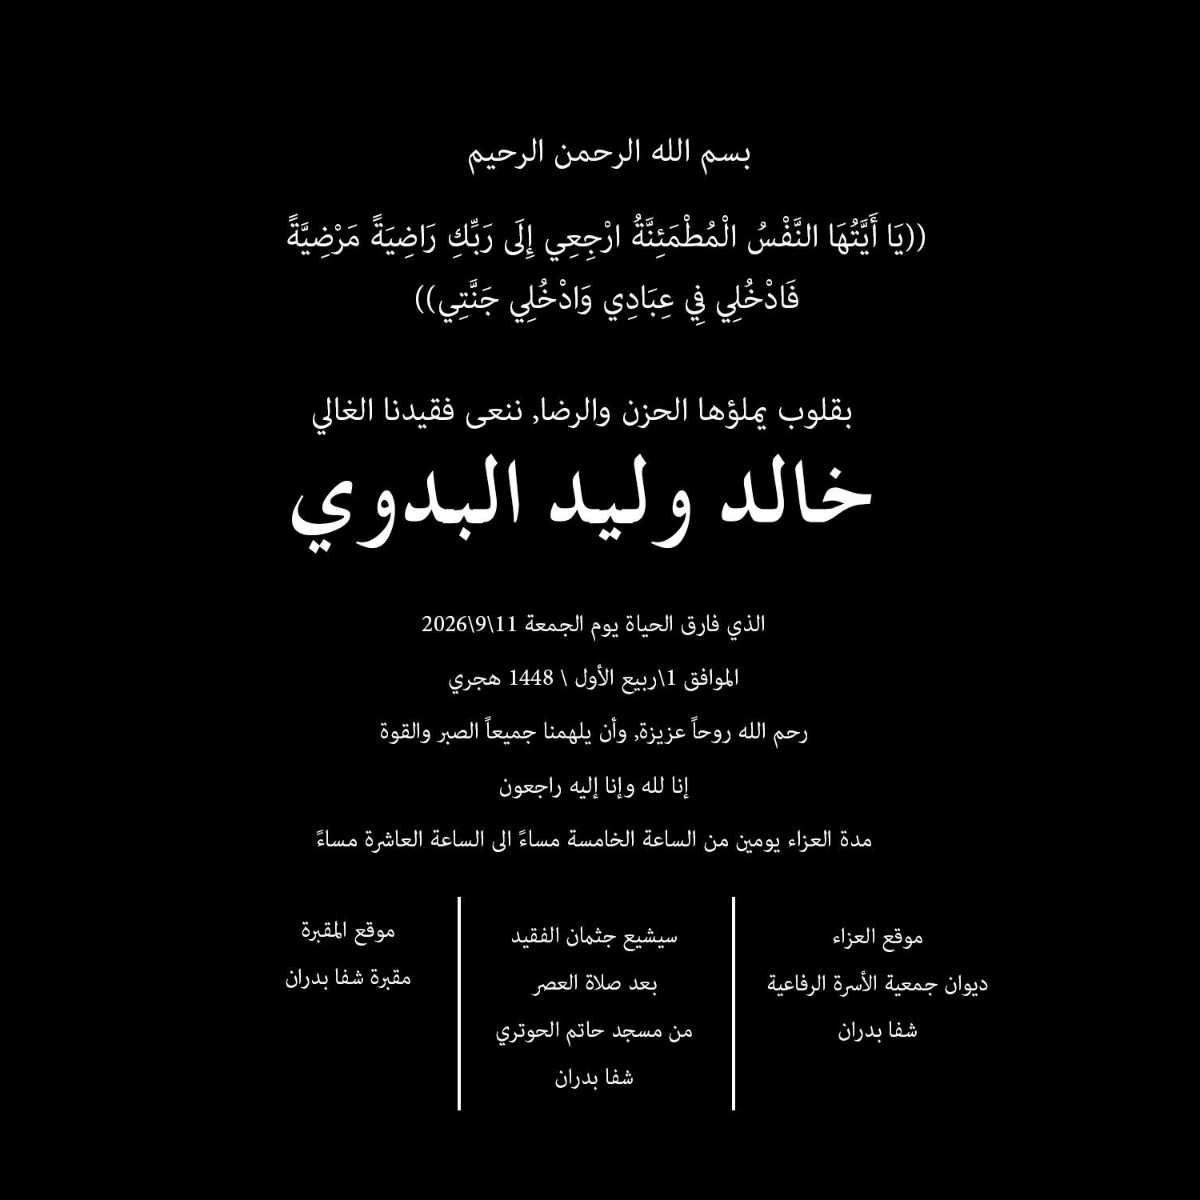
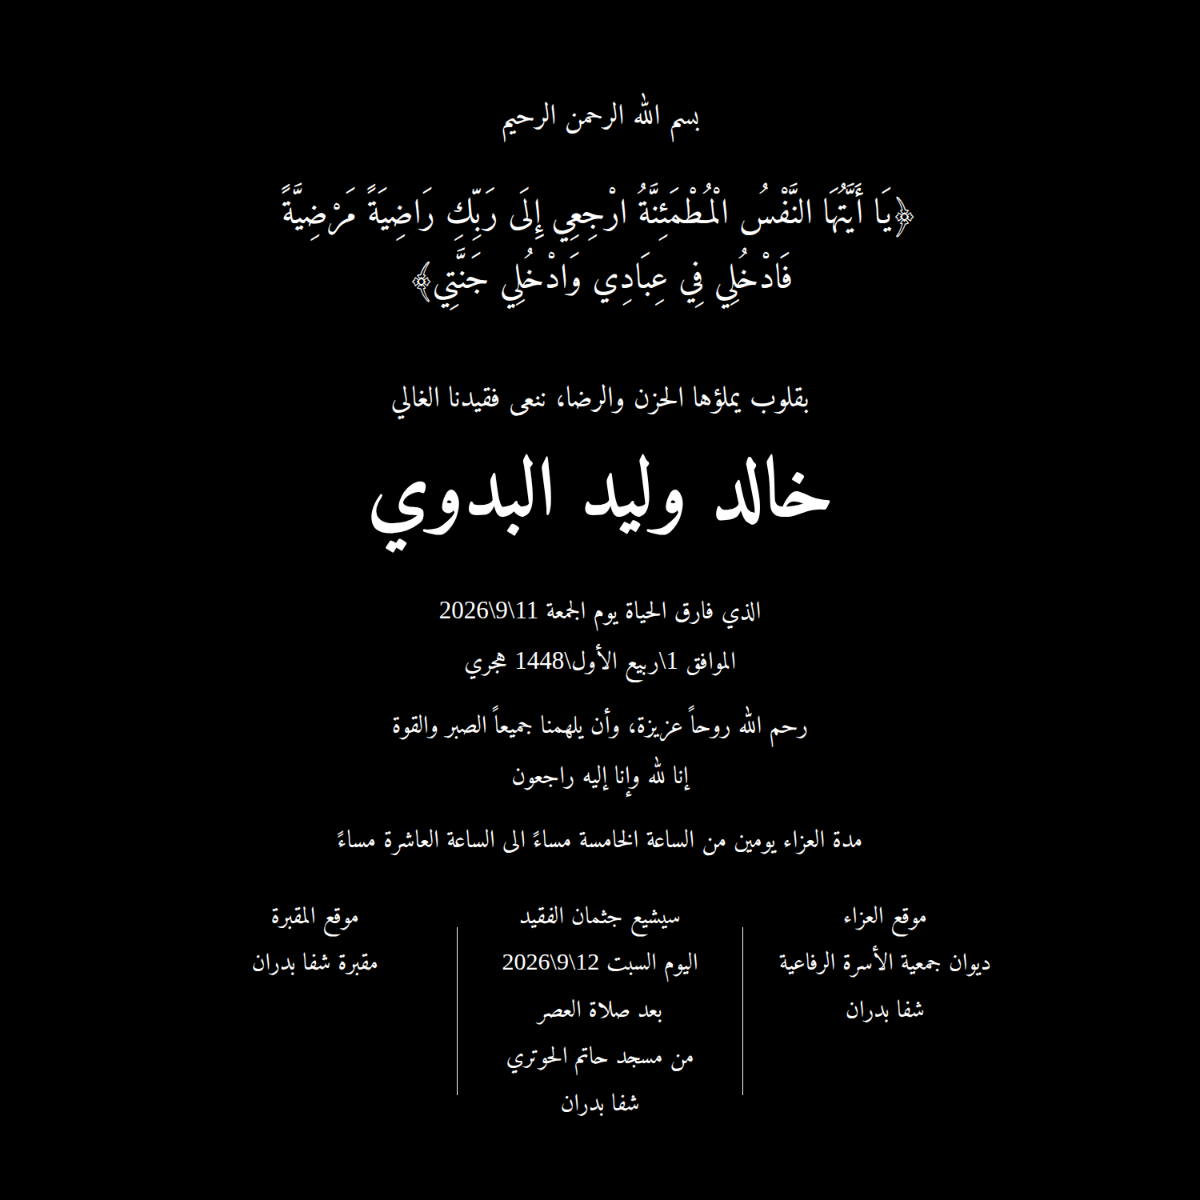
Rebuild the announcement card with the procession date
The procession is Saturday 12/9/2026 after Asr, so the card is typeset
again from its own text with that line spelled out, replacing the image
that carried no date. Regenerate the square preview from it, add the
date to the mosque card and the image description, and bump the image
URLs so caches pick up the new version.

Claude-Session: https://claude.ai/code/session_01EyBEKd24a4krTEm4YGB4N2

diff --git a/maps/index.html b/maps/index.html
@@ -14,8 +14,8 @@
   <meta property="og:url" content="https://www.wbadawi.info/maps/">
   <meta property="og:locale" content="ar_JO">
   <!-- صورة المعاينة عند مشاركة الرابط (واتساب وغيره) — مربّعة 1200×1200 لتظهر البطاقة كاملة -->
-  <meta property="og:image" content="https://www.wbadawi.info/assets/img/naei/khalid-albadawi-og.png">
-  <meta property="og:image:secure_url" content="https://www.wbadawi.info/assets/img/naei/khalid-albadawi-og.png">
+  <meta property="og:image" content="https://www.wbadawi.info/assets/img/naei/khalid-albadawi-og.png?v=2">
+  <meta property="og:image:secure_url" content="https://www.wbadawi.info/assets/img/naei/khalid-albadawi-og.png?v=2">
   <meta property="og:image:type" content="image/png">
   <meta property="og:image:width" content="1200">
   <meta property="og:image:height" content="1200">
@@ -23,8 +23,8 @@
   <meta name="twitter:card" content="summary_large_image">
   <meta name="twitter:title" content="المرحوم خالد وليد البدوي">
   <meta name="twitter:description" content="إنا لله وإنا إليه راجعون — مواعيد التشييع والعزاء ومواقع المسجد والمقبرة والديوان.">
-  <meta name="twitter:image" content="https://www.wbadawi.info/assets/img/naei/khalid-albadawi-og.png">
-  <link rel="image_src" href="https://www.wbadawi.info/assets/img/naei/khalid-albadawi-og.png">
+  <meta name="twitter:image" content="https://www.wbadawi.info/assets/img/naei/khalid-albadawi-og.png?v=2">
+  <link rel="image_src" href="https://www.wbadawi.info/assets/img/naei/khalid-albadawi-og.png?v=2">
   <link rel="canonical" href="https://www.wbadawi.info/maps/">
   <link rel="preconnect" href="https://fonts.googleapis.com">
   <link rel="preconnect" href="https://fonts.gstatic.com" crossorigin>
@@ -327,11 +327,11 @@
 
     <section class="notice reveal">
       <h1 class="sr-only">نعي المرحوم خالد وليد البدوي</h1>
-      <a class="notice__card" href="/assets/img/naei/khalid-albadawi.png">
+      <a class="notice__card" href="/assets/img/naei/khalid-albadawi.png?v=2">
         <img
-          src="/assets/img/naei/khalid-albadawi.png"
+          src="/assets/img/naei/khalid-albadawi.png?v=2"
           width="1200" height="1500" fetchpriority="high"
-          alt="بسم الله الرحمن الرحيم. ﴿يا أيتها النفس المطمئنة ارجعي إلى ربك راضية مرضية فادخلي في عبادي وادخلي جنتي﴾. بقلوب يملؤها الحزن والرضا، ننعى فقيدنا الغالي خالد وليد البدوي، الذي فارق الحياة يوم الجمعة 11/9/2026 الموافق 1 ربيع الأول 1448 هجري. رحم الله روحاً عزيزة، وأن يلهمنا جميعاً الصبر والقوة. إنا لله وإنا إليه راجعون. مدة العزاء يومين من الساعة الخامسة مساءً إلى الساعة العاشرة مساءً. موقع العزاء: ديوان جمعية الأسرة الرفاعية، شفا بدران. سيشيع جثمان الفقيد بعد صلاة العصر من مسجد حاتم الحوتري، شفا بدران. موقع المقبرة: مقبرة شفا بدران.">
+          alt="بسم الله الرحمن الرحيم. ﴿يا أيتها النفس المطمئنة ارجعي إلى ربك راضية مرضية فادخلي في عبادي وادخلي جنتي﴾. بقلوب يملؤها الحزن والرضا، ننعى فقيدنا الغالي خالد وليد البدوي، الذي فارق الحياة يوم الجمعة 11/9/2026 الموافق 1 ربيع الأول 1448 هجري. رحم الله روحاً عزيزة، وأن يلهمنا جميعاً الصبر والقوة. إنا لله وإنا إليه راجعون. مدة العزاء يومين من الساعة الخامسة مساءً إلى الساعة العاشرة مساءً. موقع العزاء: ديوان جمعية الأسرة الرفاعية، شفا بدران. سيشيع جثمان الفقيد اليوم السبت 12/9/2026 بعد صلاة العصر من مسجد حاتم الحوتري، شفا بدران. موقع المقبرة: مقبرة شفا بدران.">
       </a>
     </section>
 
@@ -355,7 +355,7 @@
             <span class="card__kicker">التشييع</span>
             <span class="card__title">مسجد حاتم الحوتري</span>
             <span class="card__place">شفا بدران</span>
-            <span class="card__time">يُشيَّع جثمان الفقيد بعد صلاة العصر</span>
+            <span class="card__time">اليوم السبت 12 / 9 / 2026 — بعد صلاة العصر</span>
           </span>
           <span class="card__arrow" aria-hidden="true">
             <svg width="20" height="20" viewBox="0 0 24 24" fill="none" stroke="currentColor" stroke-width="1.8" stroke-linecap="round" stroke-linejoin="round">
